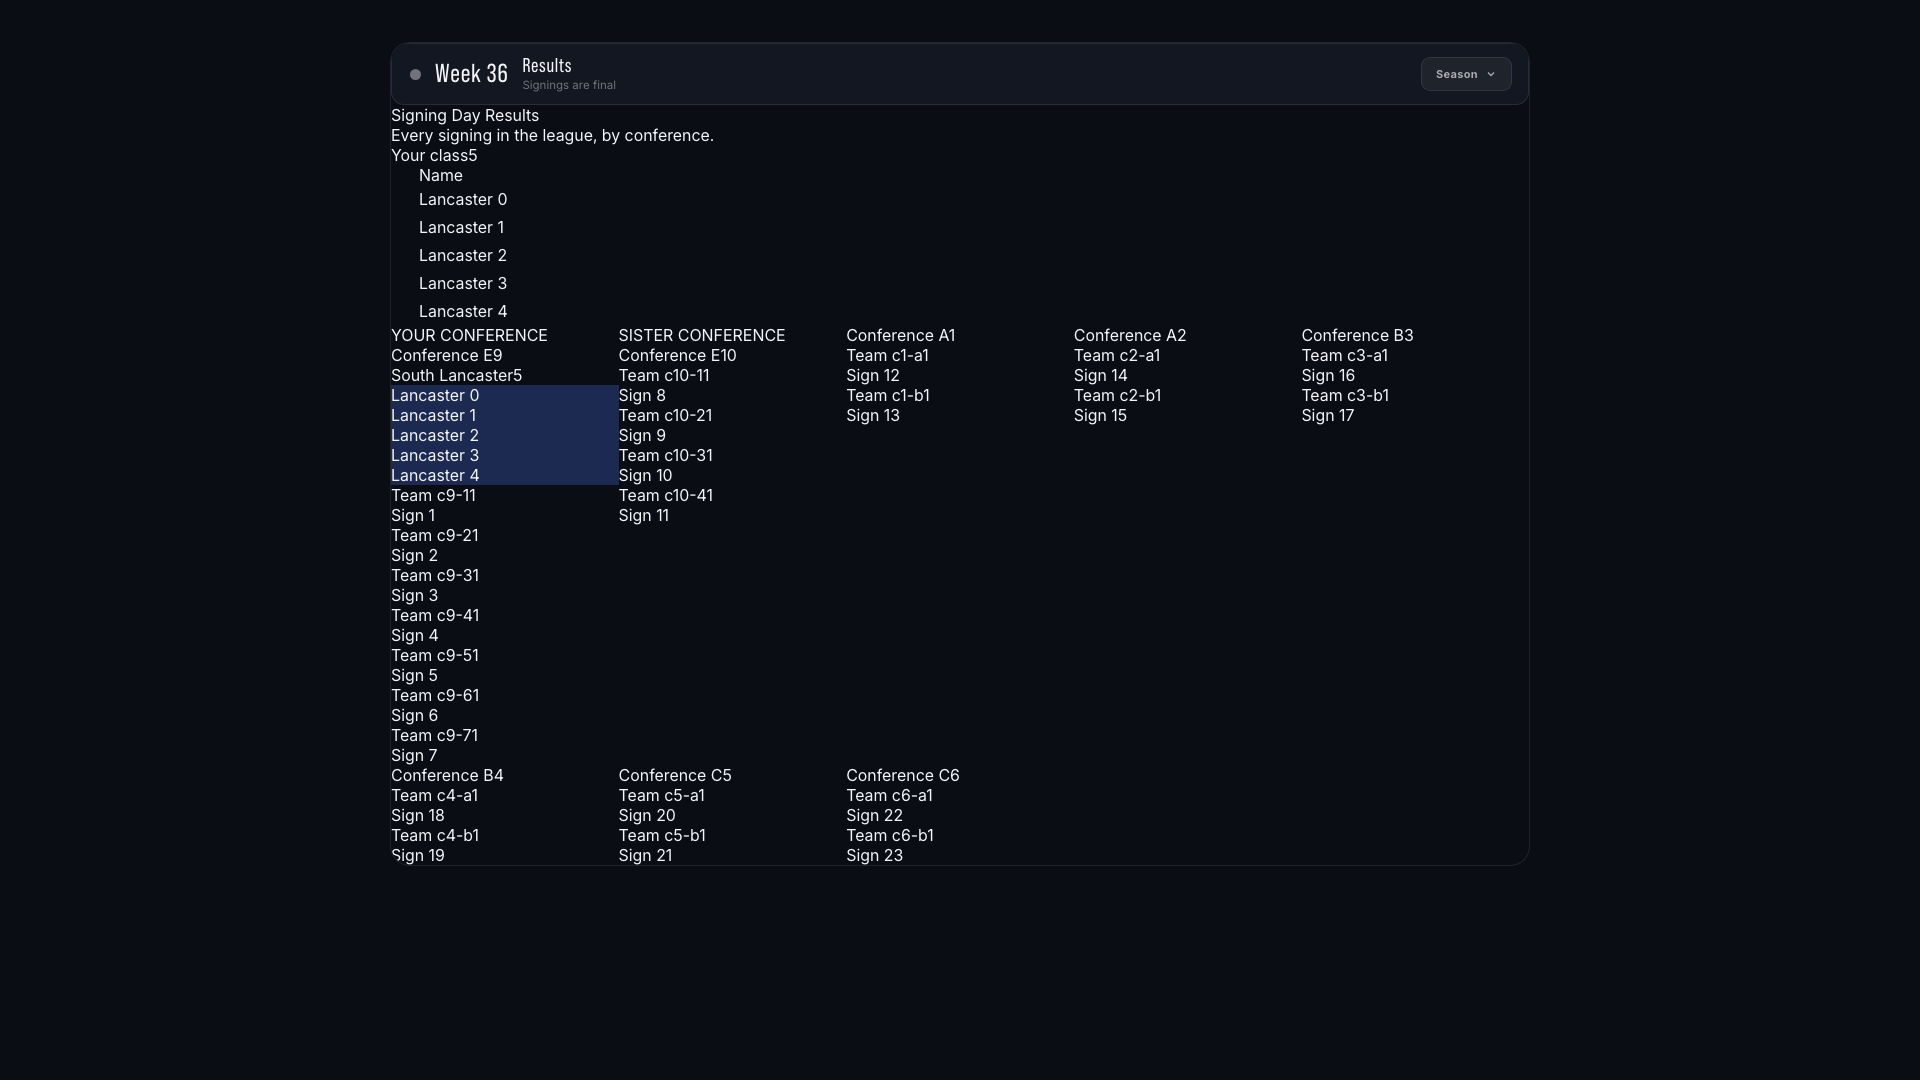
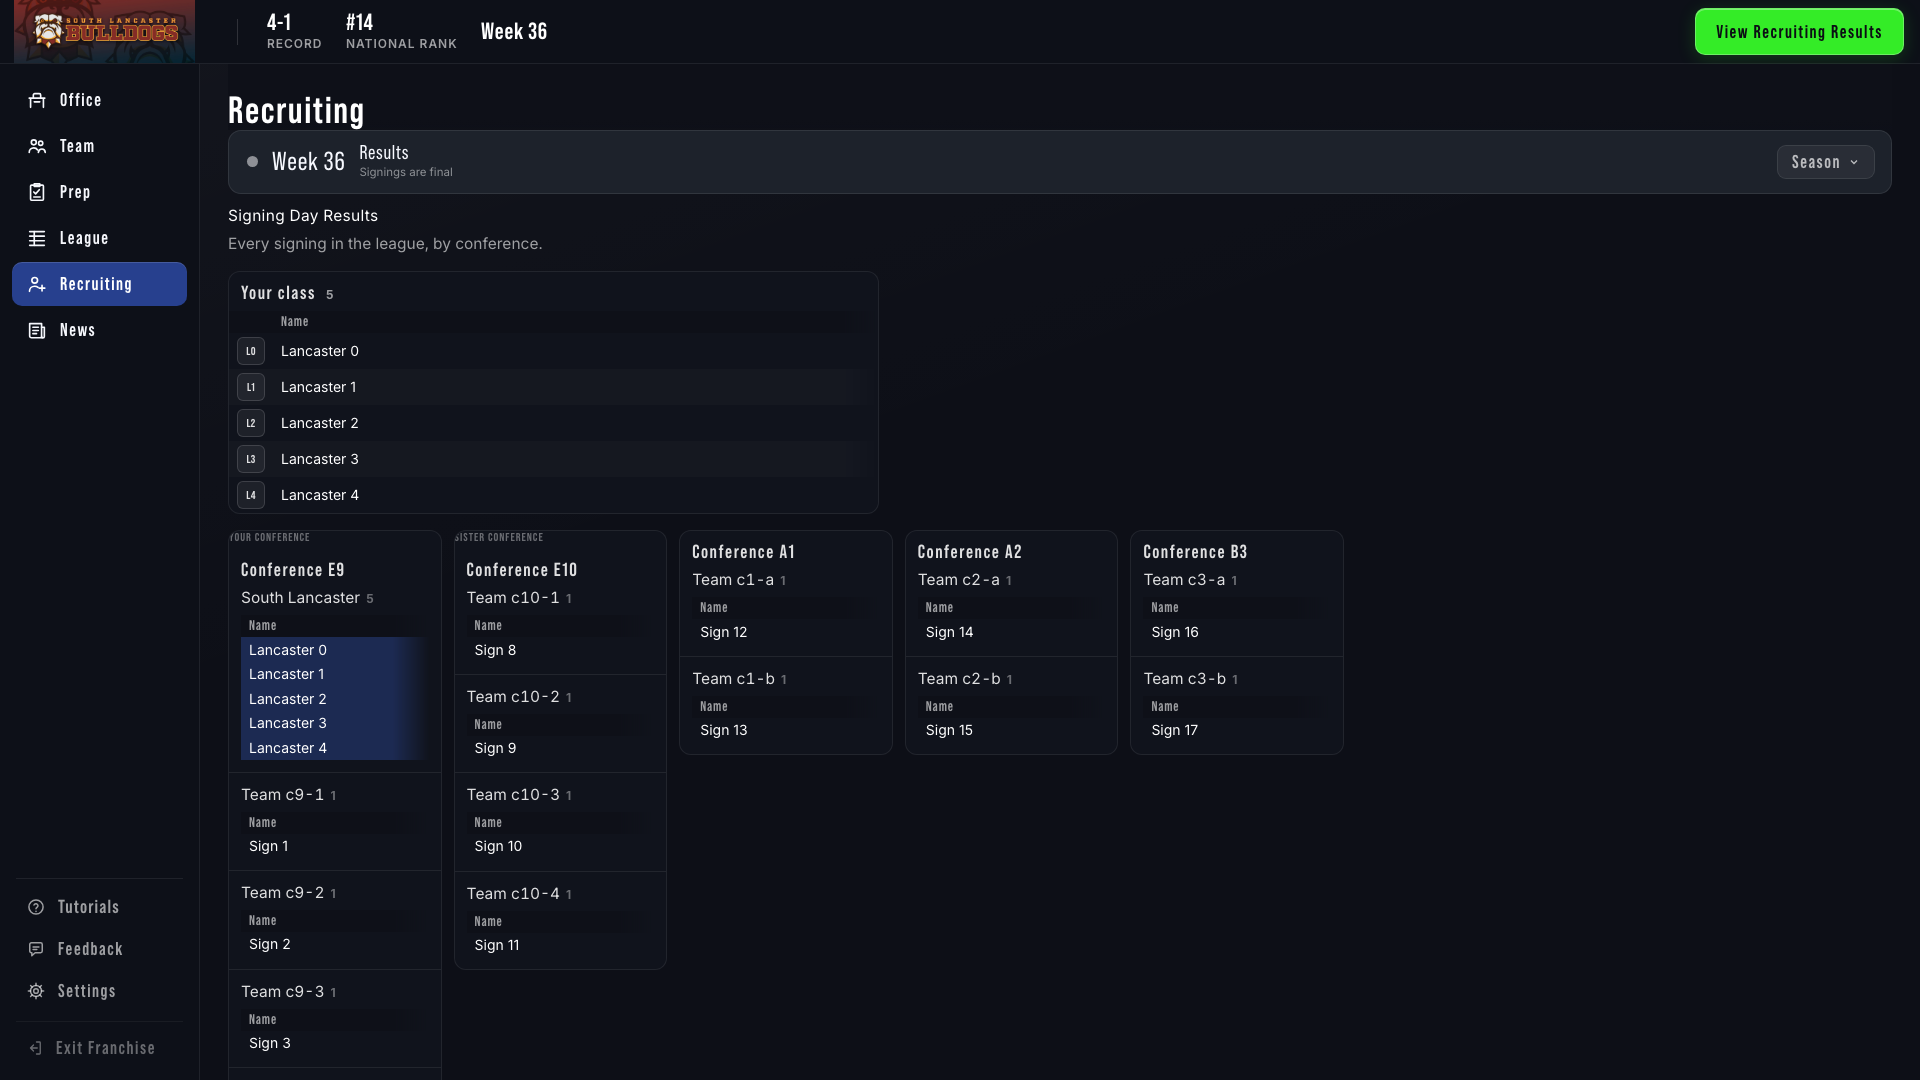
Fix week-36 results styling by scoping tokens and shell-backed e2e.
The recruit-results fixture omitted html.gob and the GOB shell, so browse tokens and table cards never painted; real-page tests and league thead columns catch regressions.

diff --git a/tests/e2e/recruit-results-week.spec.js b/tests/e2e/recruit-results-week.spec.js
@@ -1,27 +1,16 @@
 // @ts-check
-/** Week 36 signing results — browse-template layout. */
+/** Week 36 signing results — browse-template layout inside GOB shell. */
 const { test, expect } = require('@playwright/test');
 const fs = require('fs');
 const path = require('path');
+const { stubAuth } = require('./helpers/auth');
 
-const S = path.join(__dirname, '../../FrontEnd/static');
-const read = (p) => fs.readFileSync(path.join(S, p), 'utf8');
+test.describe.configure({ timeout: 120000 });
+
 const OUT = path.join(__dirname, '../../reports/recruit-results-week');
-
-const CSS = read('css/gob-tokens.css') + read('css/gob-tables.css') + read('recruiting-spine.css')
-  + read('recruiting-signing.css') + read('recruiting-results-hub.css') + read('css/attr-tiles.css');
-const SCRIPTS = [
-  'js/shared/franchiseContext.js',
-  'common.js',
-  'js/utils/attributeDisplay.js',
-  'js/shared/attrTiles.js', 'js/shared/rtBucket.js',
-  'js/shared/playerYear.js',
-  'recruiting-common.js',
-  'recruiting-spine.js',
-].map(read);
-const HUB = read('recruiting-hub.js');
-
+const FID = 'f-e2e-recruit-results-week';
 const USER = 'user-team-id';
+
 const regionOf = (c) => String.fromCharCode(65 + Math.floor((Number(c) - 1) / 2));
 
 function withRegions(conferences, userTeamId) {
@@ -76,7 +65,7 @@ function fixtureLeague() {
   return { signed, conferences, teamNames };
 }
 
-function fixturePayload(opts) {
+function recruitingPayload() {
   const { signed, conferences, teamNames } = fixtureLeague();
   return {
     team: 'South Lancaster', team_id: USER, team_region: 'A', week: 36, season: 3,
@@ -91,50 +80,112 @@ function fixturePayload(opts) {
   };
 }
 
-async function mountResults(page) {
-  await page.route('**/', (route) => (route.request().resourceType() === 'document'
-    ? route.fulfill({ status: 200, contentType: 'text/html', body: '<!doctype html><title>o</title>' })
-    : route.continue()));
-  await page.goto('/?franchise_id=fid-test&team_id=user-team-id');
-  await page.setContent(`
-    <style>${CSS}</style>
-    <style>body{margin:0;background:var(--bg,#0b0d14)}.doc{max-width:1180px;margin:0 auto;padding:20px}</style>
-    <div class="doc"><div id="hub-root" class="spine"></div></div>
-  `);
-  for (const src of SCRIPTS) await page.addScriptTag({ content: src });
-  await page.evaluate((data) => {
-    window.__seen = [];
-    window.API_CONFIG = {
-      buildUrl: (p) => `https://stub.local${p}`,
-      getAuthHeaders: () => ({}),
-      getRecruitImageUrl: (id) => `https://stub.local/img/${id}.png`,
+function commandCenterPayload() {
+  return {
+    franchise_id: FID,
+    team_id: USER,
+    user_team_id: USER,
+    team: 'South Lancaster',
+    week: 36,
+    rank: 14,
+    season: 3,
+    current_season: 3,
+    training_completed: true,
+    session_type: 'in-season',
+    cut_required: false,
+    recruiting_wire: { board_saved_week: 36, counts: {}, week_35_orders_submitted: true },
+    user_conference: 9,
+    user_region: 'A',
+    team_record: { wins: 4, losses: 1 },
+  };
+}
+
+async function fulfillJson(route, body) {
+  await route.fulfill({ status: 200, contentType: 'application/json', body: JSON.stringify(body) });
+}
+
+async function openWeek36Results(page) {
+  const seenCalls = [];
+  await stubAuth(page);
+  await page.route('**/*', async (route) => {
+    const request = route.request();
+    let pathname = '';
+    try { pathname = new URL(request.url()).pathname; } catch (err) {
+      await route.continue();
+      return;
+    }
+    if (pathname.startsWith('/franchise/recruiting-data')) {
+      await fulfillJson(route, recruitingPayload());
+      return;
+    }
+    if (pathname.startsWith('/franchise/command-center/data')) {
+      await fulfillJson(route, commandCenterPayload());
+      return;
+    }
+    if (pathname.includes('week-36-results-seen')) {
+      seenCalls.push(pathname);
+      await fulfillJson(route, {});
+      return;
+    }
+    if (pathname.startsWith('/api/') || pathname.startsWith('/franchise/') || pathname === '/app-config' || pathname === '/teams') {
+      await fulfillJson(route, pathname === '/app-config' ? { isAlpha: false, version: '1.0' } : {});
+      return;
+    }
+    await route.continue();
+  });
+  await page.goto('/recruiting.html?franchise_id=' + FID + '&team_id=' + USER);
+  await page.waitForSelector('#hub-signings .gob-rec-results', { timeout: 15000 });
+  await page.waitForFunction(() => !document.documentElement.classList.contains('gob-pending'));
+  await page.waitForSelector('html.gob-shell .rail', { timeout: 15000 });
+  return seenCalls;
+}
+
+async function assertBrowseChrome(page) {
+  const tcard = page.locator('#hub-signings .gob-tcard').first();
+  await expect(tcard).toBeVisible();
+  const cardPaint = await tcard.evaluate((el) => {
+    const cs = getComputedStyle(el);
+    return {
+      bg: cs.backgroundColor,
+      borderWidth: parseFloat(cs.borderTopWidth) || 0,
+      borderAlpha: cs.borderTopColor,
     };
-    window.__fixture = data;
-    const realFetchJSON = window.RecruitingCommon.fetchJSON;
-    window.RecruitingCommon.fetchJSON = function (url, options) {
-      window.__seen.push(String(url));
-      if (String(url).includes('/franchise/recruiting-data')) {
-        return Promise.resolve(window.__fixture);
-      }
-      if (String(url).includes('week-36-results-seen')) {
-        return Promise.resolve({});
-      }
-      return realFetchJSON.call(this, url, options);
-    };
-  }, fixturePayload());
-  await page.addScriptTag({ content: HUB });
-  await page.waitForSelector('.gob-rec-results', { timeout: 10000 });
+  });
+  expect(cardPaint.borderWidth).toBeGreaterThan(0);
+  expect(cardPaint.bg).not.toMatch(/^rgba\(0,\s*0,\s*0,\s*0\)$/);
+
+  const rtHeader = page.locator('#hub-signings .gob-rec-your-class thead th').filter({ hasText: 'RT' });
+  await expect(rtHeader).toBeVisible();
+  const headerFont = await rtHeader.evaluate((el) => getComputedStyle(el).fontFamily.toLowerCase());
+  expect(headerFont).toMatch(/bebas/);
+
+  const countGap = await page.locator('#hub-signings .gob-rec-your-class h2 em').evaluate((el) => {
+    return parseFloat(getComputedStyle(el).marginLeft) || 0;
+  });
+  expect(countGap).toBeGreaterThan(4);
+
+  const rtYour = page.locator('#hub-signings .gob-rec-your-class tbody td.rt').first();
+  await expect(rtYour).toBeVisible();
+  const rtLeague = page.locator('#hub-signings .gob-rec-league td.rt').first();
+  await expect(rtLeague).toBeVisible();
+
+  await expect(page.locator('html.gob-shell .top')).toBeVisible();
+  await expect(page.locator('html.gob-shell .rail')).toBeVisible();
 }
 
 test.describe('week 36 signing results browse layout', () => {
-  test('your class first, conference order, navy rows, seen PATCH once', async ({ page }) => {
-    await mountResults(page);
+  test('your class first, conference order, navy rows, seen PATCH once, styled tables', async ({ page }) => {
+    const seenCalls = await openWeek36Results(page);
+    await assertBrowseChrome(page);
+
     const layout = await page.evaluate(() => {
       const root = document.querySelector('#hub-signings .gob-rec-results');
       const kids = [...root.children].map((el) => el.className);
       const confTitles = [...document.querySelectorAll('#hub-signings .gob-rec-conf h2')].map((h) => h.textContent.trim());
       const navy = document.querySelectorAll('#hub-signings .gob-rec-league tr.me').length;
-      return { kids, confTitles, navy, seen: (window.__seen || []).filter((u) => u.includes('week-36-results-seen')).length };
+      const yourHeaders = [...document.querySelectorAll('#hub-signings .gob-rec-your-class thead th')].map((th) => th.textContent.trim());
+      const leagueHeaders = [...document.querySelectorAll('#hub-signings .gob-rec-league thead th')].map((th) => th.textContent.trim());
+      return { kids, confTitles, navy, yourHeaders, leagueHeaders };
     });
     expect(layout.kids[0]).toContain('gob-rec-lead');
     expect(layout.kids.some((c) => c.includes('gob-rec-your-class'))).toBe(true);
@@ -145,16 +196,20 @@ test.describe('week 36 signing results browse layout', () => {
     expect(layout.confTitles[0]).toBe('Conference E9');
     expect(layout.confTitles[1]).toBe('Conference E10');
     expect(layout.confTitles[2]).toBe('Conference A1');
+    expect(layout.yourHeaders).toEqual(['', 'Name', 'Pos', 'Yr', 'RT']);
+    expect(layout.leagueHeaders.slice(0, 4)).toEqual(['Name', 'Pos', 'Yr', 'RT']);
     expect(layout.navy).toBeGreaterThan(0);
-    expect(layout.seen).toBe(1);
+    expect(seenCalls.length).toBe(1);
     await expect(page.locator('#hub-signings .gob-rec-player-link').first()).toHaveAttribute('href', /player-view/);
+    await expect(page.locator('#hub-signings .gob-rec-your-class h2 em')).toHaveText('5');
   });
 
-  test('screenshots at 1280 and 1920', async ({ page }) => {
+  test('screenshots at 1280 and 1920 with shell', async ({ page }) => {
     fs.mkdirSync(OUT, { recursive: true });
     for (const size of [[1280, 720, '1280'], [1920, 1080, '1920']]) {
       await page.setViewportSize({ width: size[0], height: size[1] });
-      await mountResults(page);
+      await openWeek36Results(page);
+      await assertBrowseChrome(page);
       await page.screenshot({ path: path.join(OUT, `results-w36-${size[2]}.png`) });
     }
   });

diff --git a/FrontEnd/static/recruiting-hub.js b/FrontEnd/static/recruiting-hub.js
@@ -2277,7 +2277,10 @@
       }).join('');
       return '<div class="gob-rec-team' + (t.isUser ? ' is-user-team' : '') + '">' +
         '<h3 class="gob-rec-team-h">' + Common.escapeHtml(t.name) + '<em>' + t.signings.length + '</em></h3>' +
-        '<div class="gob-xs gob-rec-league"><table class="gob-tbl"><tbody>' + body + '</tbody></table></div></div>';
+        '<div class="gob-xs gob-rec-league"><table class="gob-tbl">' +
+        '<colgroup><col><col><col><col></colgroup>' +
+        '<thead><tr><th class="left">Name</th><th>Pos</th><th>Yr</th><th>RT</th></tr></thead>' +
+        '<tbody>' + body + '</tbody></table></div></div>';
     }).join('');
     return '<section class="gob-tcard gob-rec-conf">' + eye +
       '<h2>Conference ' + Common.escapeHtml(g.label) + '</h2>' + teams + '</section>';

diff --git a/FrontEnd/static/recruiting.html b/FrontEnd/static/recruiting.html
@@ -1,5 +1,5 @@
 <!DOCTYPE html>
-<html lang="en">
+<html lang="en" class="gob">
 <head>
   <link rel="stylesheet" href="/fonts/app-fonts.css">
   <script src="/js/shared/franchiseContext.js"></script>

diff --git a/reports/recruit-results-week-2026-09-28.md b/reports/recruit-results-week-2026-09-28.md
@@ -38,3 +38,18 @@ Full suite: **520 passed, 3 skipped**, ~7.7m, port **8010**, `CI` unset, workers
 `reports/recruit-results-week/results-w36-1280.png`, `results-w36-1920.png` — fixture with six conferences and a full user class.
 
 STATUS: COMPLETE
+
+## Fix pass
+
+**Root cause:** Design tokens live under `.gob` in `gob-tokens.css`. The week-36 e2e fixture used `setContent` with inlined CSS but no `html.gob`, so `--surface-*`, `--line`, and table typography never applied (plain text, “Your class5” with no `h2 em` spacing). Production `recruiting.html` relied on `gobShell.js` to add `gob` after paint; the spec never loaded the shell.
+
+**Fixes**
+- `recruiting.html`: `class="gob"` on `<html>` so browse tokens apply as soon as the page loads (shell still adds `gob-shell`).
+- `recruiting-hub.js`: league team tables get `thead` + colgroup (Name, Pos, Yr, RT) like Your class.
+- `recruit-results-week.spec.js`: real `/recruiting.html` + `stubAuth`, CC + recruiting stubs, wait for `gob-pending` clear and rail; visual assertions (`.gob-tcard` border/background, Bebas RT header, visible RT cells, spaced count in `h2 em`).
+
+**Self-check (screenshots):** Opened `results-w36-1280.png` and `results-w36-1920.png` — GOB top bar + rail, dark `gob-tcard` panels with borders, Your class table with portrait/Name/Pos/Yr/RT and count badge beside the title, conference grid with eyebrows, per-team headers, Pos/Yr/RT columns, navy `#1c2a52` only on user-team rows (`tr.me`).
+
+**Tests:** Recruiting bundle (recruit-results-week, signing-reveal, recruiting-tabs, fcc-invite-step, recruits-pool) **95 passed**, port **8010**, workers=1, `CI` unset. Full suite deferred — another Playwright run active on port 8157 (`gob-stats`).
+
+STATUS: COMPLETE
